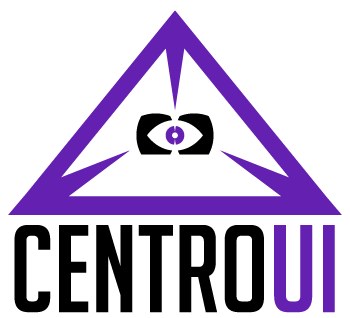
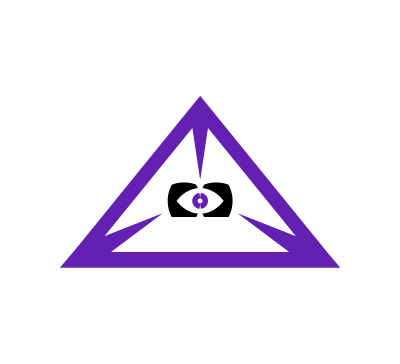
Finishing v1

diff --git a/_site/index.html b/_site/index.html
@@ -16,22 +16,31 @@
     
 <section class="page-header">
 
+  <img class="logo" src="/CentroUI/assets/centroui-white.png"/>
   <h1 class="project-name">CentroUI</h1>
   <h2 class="project-tagline">Library for building user interfaces for VR websites</h2>
-  <a href="https://github.com/Centroida/CentroUI" class="btn">View on GitHub</a>
+  <a href="https://github.com/Centroida/CentroUI" class="btn">Source</a>
   <a href="https://github.com/Centroida/CentroUI/wiki"  class="btn">
      Documentation
   </a>
-  <div id='canvas-wrap'>
-</div>
 </section>
 
 
     <section class="main-content">
       
       <div id="home">
-  <h1></h1>
-  <img src="/CentroUI/assets/centroui.png"
+  <h1>What is CentroUI</h1>
+
+  <p>
+    CentroUI provides a set of reusable and extendable UI controls for building interfaces for WebVR applications. This library is based on ReactVR, providing developers with text input controls, cards, lists, navigation items and grids, all built with cross-device and cross-browser compatibility to ensure consistent experience with any environment and device.
+
+    The layout engine intelligently places elements depending on context, providing a predictable and structured approach to building interfaces for WebVR.
+
+    The UI elements are built according to best practices for building UI for VR and come with capabilities for zooming and highlighting to ensure the best user experience at the lowest development cost.
+  </p>
+
+  <h2> Example </h2>
+  <img class="demo" src="/CentroUI/assets/scrn1.png" />
 </div>
 
 

diff --git a/index.html b/index.html
@@ -4,6 +4,16 @@ title: {{ site.name }}
 ---
 
 <div id="home">
-  <h1></h1>
-  <img src="{{ site.baseurl }}/assets/centroui.png"
+  <h1>What is CentroUI?</h1>
+
+  <p>
+    CentroUI provides a set of reusable and extendable UI controls for building interfaces for WebVR applications. This library is based on ReactVR, providing developers with text input controls, cards, lists, navigation items and grids, all built with cross-device and cross-browser compatibility to ensure consistent experience with any environment and device.
+
+    The layout engine intelligently places elements depending on context, providing a predictable and structured approach to building interfaces for WebVR.
+
+    The UI elements are built according to best practices for building UI for VR and come with capabilities for zooming and highlighting to ensure the best user experience at the lowest development cost.
+  </p>
+
+  <h2> Example </h2>
+  <img class="demo" src="{{ site.baseurl }}/assets/scrn1.png" />
 </div>

diff --git a/css/cayman.css b/css/cayman.css
@@ -146,7 +146,7 @@ a:hover { text-decoration: underline; }
 
 .project-name { margin-top: 0; margin-bottom: 0.1rem; }
 @media screen and (min-width: 64em) { .project-name { font-size: 3.25rem; } }
-@media screen and (min-width: 42em) and (max-width: 64em) { .project-name { font-size: 2.25rem; } }
+@media screen and (min-width: 42em) and (max-width: 64em) { .project-name { font-size: 2rem; } }
 @media screen and (max-width: 42em) { .project-name { font-size: 1.75rem; } }
 
 .project-tagline { margin-bottom: 2rem; font-weight: normal; opacity: 0.7; }
@@ -190,3 +190,8 @@ a:hover { text-decoration: underline; }
 .site-footer-owner { display: block; font-weight: bold; }
 
 .site-footer-credits { color: #819198; }
+
+/* Custom styles */
+.logo {
+  height: 250px;
+}

diff --git a/_includes/page-header.html b/_includes/page-header.html
@@ -1,12 +1,11 @@
 
 <section class="page-header">
 
+  <img class="logo" src="{{ site.baseurl }}/assets/centroui-white.png"/>
   <h1 class="project-name">{{ site.title }}</h1>
   <h2 class="project-tagline">{{ site.tagline }}</h2>
-  <a href="https://github.com/Centroida/CentroUI" class="btn">Source</a>
-  <a href="https://github.com/Centroida/CentroUI/wiki"  class="btn">
+  <a href="https://github.com/Centroida/CentroUI" target="_blank "class="btn">Source</a>
+  <a href="https://github.com/Centroida/CentroUI/wiki"  target="_blank" class="btn">
      Documentation
   </a>
-  <div id='canvas-wrap'>
-</div>
 </section>

diff --git a/_site/main/2016/02/12/sample-content.html b/_site/main/2016/02/12/sample-content.html
@@ -16,14 +16,13 @@
     
 <section class="page-header">
 
+  <img class="logo" src="/CentroUI/assets/centroui-white.png"/>
   <h1 class="project-name">CentroUI</h1>
   <h2 class="project-tagline">Library for building user interfaces for VR websites</h2>
-  <a href="https://github.com/Centroida/CentroUI" class="btn">View on GitHub</a>
+  <a href="https://github.com/Centroida/CentroUI" class="btn">Source</a>
   <a href="https://github.com/Centroida/CentroUI/wiki"  class="btn">
      Documentation
   </a>
-  <div id='canvas-wrap'>
-</div>
 </section>
 
 

diff --git a/_includes/page-footer.html b/_includes/page-footer.html
@@ -1,5 +1,5 @@
 <footer class="site-footer">
-  <span class="site-footer-owner"><a href="{{ site.url }}">{{ site.title }}</a> is maintained by <a href="{{ maintainerurl }}">{{ maintainername }}</a>.</span>
+  <span class="site-footer-owner"><a href="{{ site.url }}">{{ site.title }}</a> is maintained by <a href="https://www.centroida.co">Centroida</a>.</span>
   <span class="site-footer-credits">This page was generated by <a href="https://pages.github.com">GitHub Pages</a>.</span>
 
 </footer>

diff --git a/_site/css/cayman.css b/_site/css/cayman.css
@@ -190,3 +190,8 @@ a:hover { text-decoration: underline; }
 .site-footer-owner { display: block; font-weight: bold; }
 
 .site-footer-credits { color: #819198; }
+
+/* Custom styles */
+.logo {
+  height: 250px;
+}
